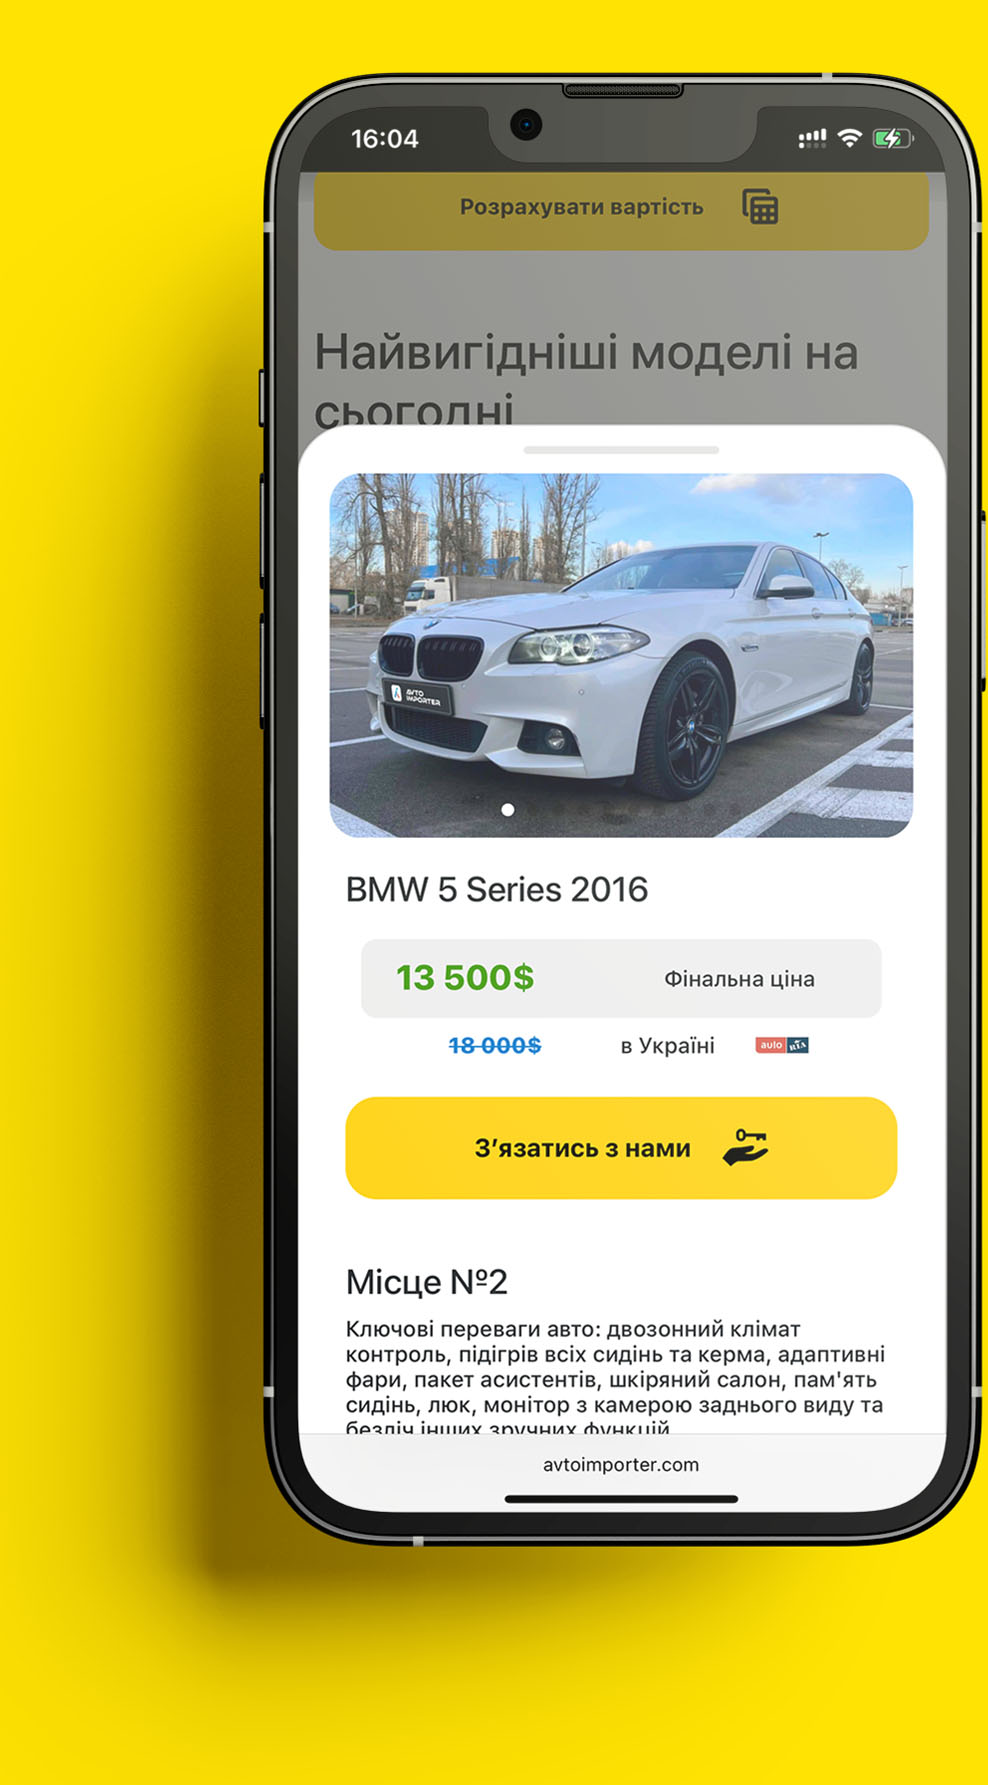
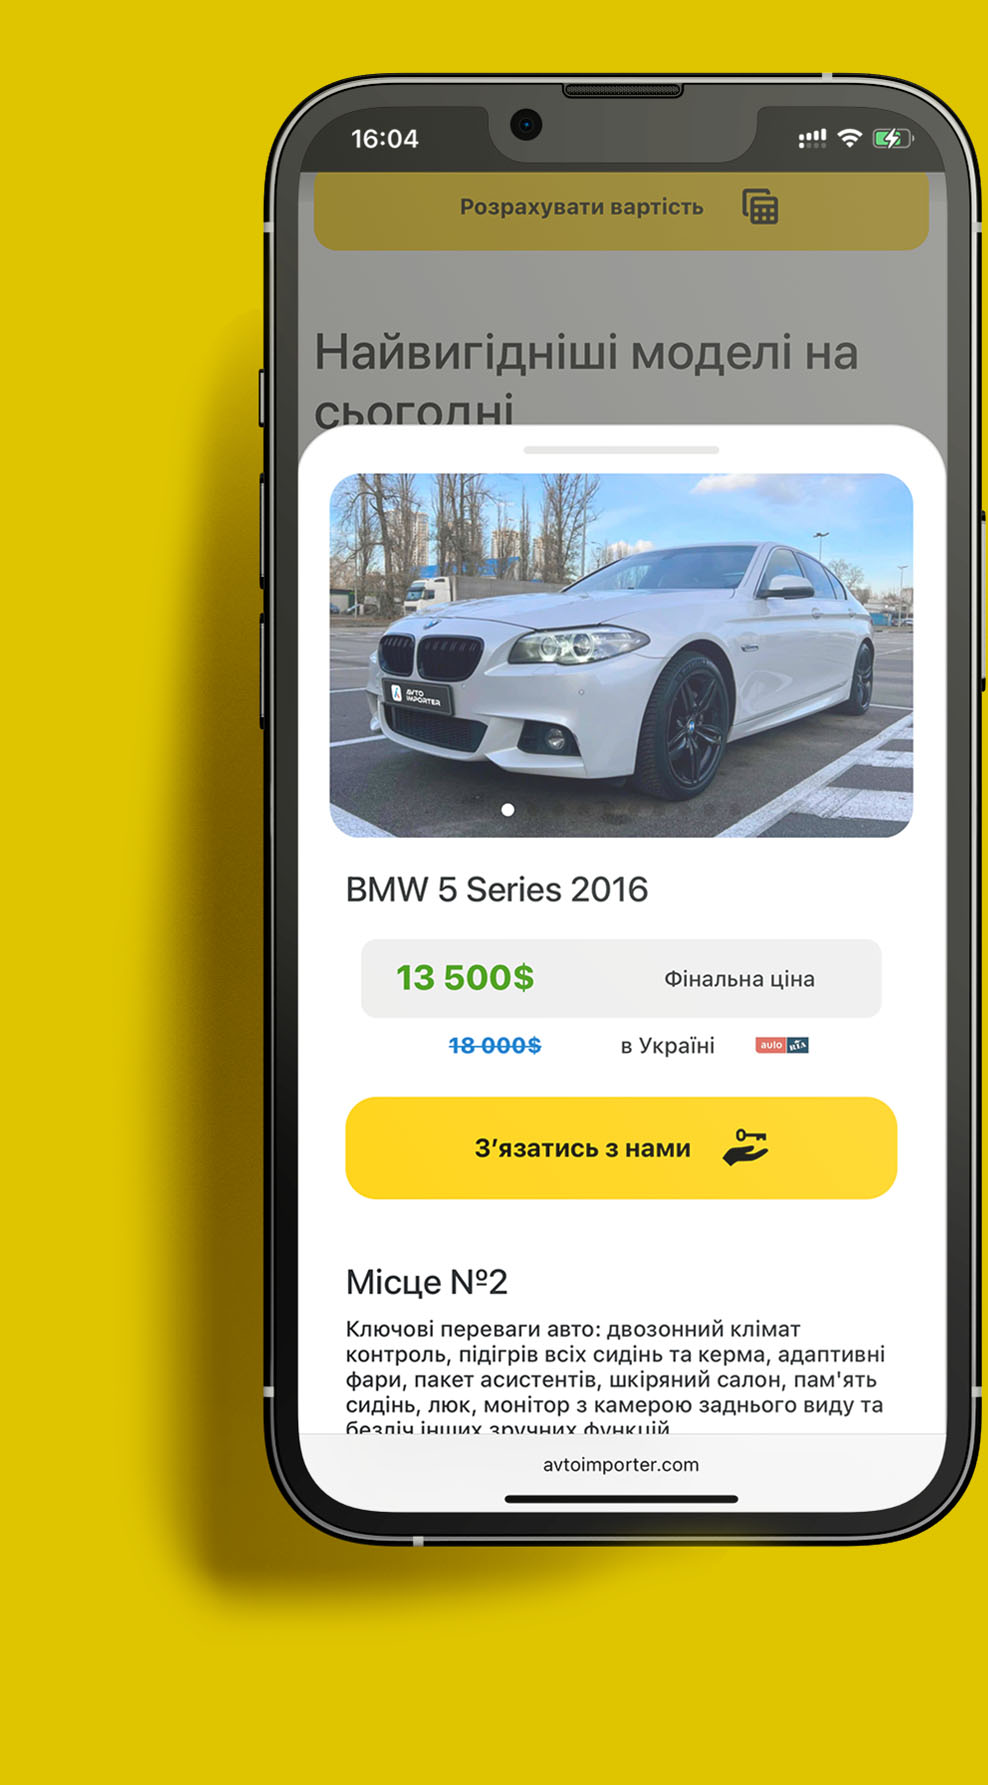
5

Changed region(s): [[0.0, 0.0, 1.0, 0.4314], [0.0, 0.3697, 1.0, 1.0], [0.1518, 0.2465, 0.2126, 0.4006]]

diff --git a/index14.html b/index14.html
@@ -340,7 +340,7 @@
                 <picture><source srcset="img/avto_iphone.webp" type="image/webp"><img width="100%" src="img/avto_iphone.jpg" alt=""></picture>
               </div>
             </div>
-            <div class="row text_plus">
+            <div class="row text_plus avto_text">
               <div class="col-6 mob_on">
                 <h3>- User-friendly interface: The web design for our online cinema is designed with ease-of-use in mind. Our interface is
                 intuitive and simple, allowing users to easily navigate the site and find the movies they want to watch.</h3>

diff --git a/css/style.min.css b/css/style.min.css
@@ -783,7 +783,12 @@ Theme Name: Fybrid Studio
     padding-bottom: 100px;
   }
   .avto_mob {
-    background-color: #ffe303 !important;
+    background-color: #dec500 !important;
+  }
+  .avto_text{
+    h3{
+        color: #000;
+    }
   }
   .friesa_mob .text_plus {
     padding: 60px;

diff --git a/css/style.css b/css/style.css
@@ -783,7 +783,7 @@ html.is-animating .transition-fade2 {
   padding-bottom: 100px;
 }
 .avto_mob {
-  background-color: #ffe303 !important;
+  background-color: #dec500 !important;
 }
 .friesa_mob .text_plus {
   padding: 60px;
